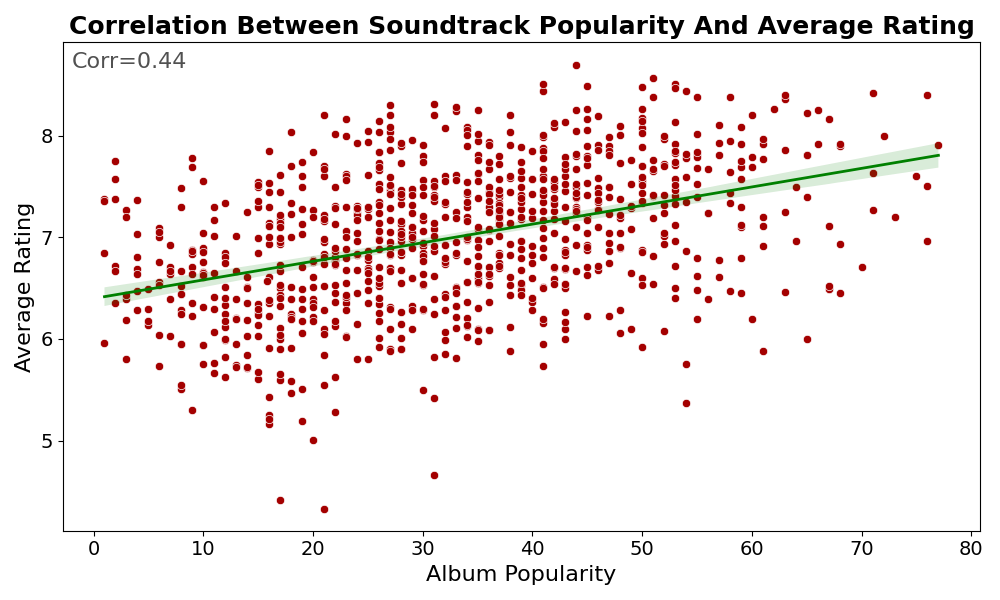
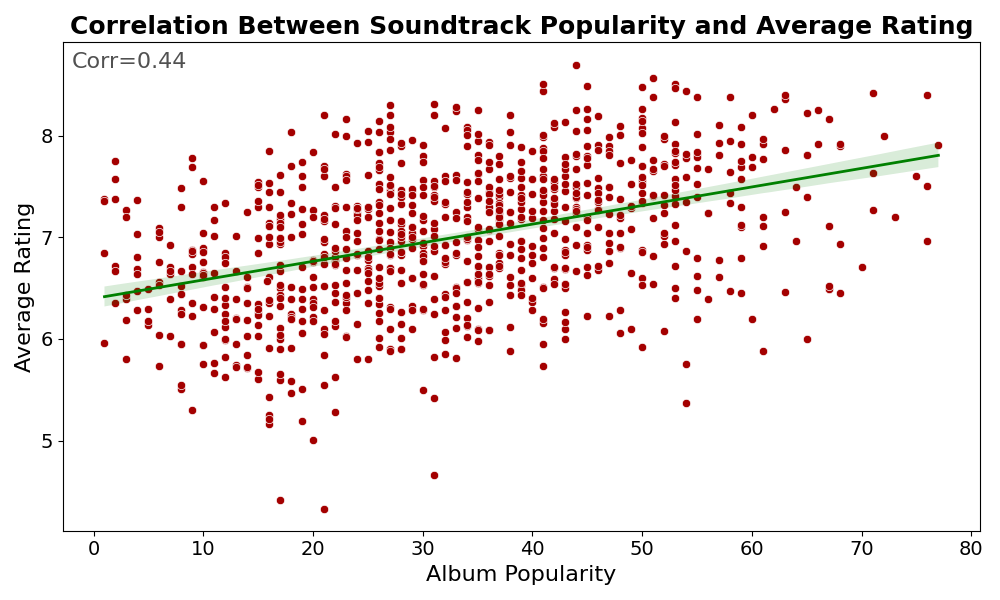
Fix title capitalization in heatmap titles and scatter plot title for consistency

Changed region(s): [[0.062, 0.03, 0.992, 0.06]]

diff --git a/Reel Hits Meet Real Hits/reel_hits_viz.py b/Reel Hits Meet Real Hits/reel_hits_viz.py
@@ -6,12 +6,12 @@ from typing import Tuple, List
 from scipy.stats import rankdata
 
 FIG_SIZE: Tuple[int, int] = (13, 13)
-PEARSON_TITLE: str = "Pearson Correlation Heatmap For Movie's\nSuccess And Their Soundtrack Popularity\n"
+PEARSON_TITLE: str = "Pearson Correlation Heatmap For Movie's\nSuccess and Their Soundtrack Popularity\n"
 PEARSON_PATH: str = "..\\figures\\reel_hits_pearson_heatmap.png"
-SPEARMAN_TITLE: str = "Spearman Correlation Heatmap For Movie's\nSuccess And Their Soundtrack Popularity\n"
+SPEARMAN_TITLE: str = "Spearman Correlation Heatmap For Movie's\nSuccess and Their Soundtrack Popularity\n"
 SPEARMAN_PATH: str = "..\\figures\\reel_hits_spearman_heatmap.png"
 CORRELATION_LABEL_FMT: str = f"{{corr}} Correlation"
-SCATTER_TITLE: str = "Correlation Between Soundtrack Popularity And Average Rating"
+SCATTER_TITLE: str = "Correlation Between Soundtrack Popularity and Average Rating"
 SCATTER_PATH: str = "..\\figures\\corr_pop_rating.png"
 
 # Load dataset
